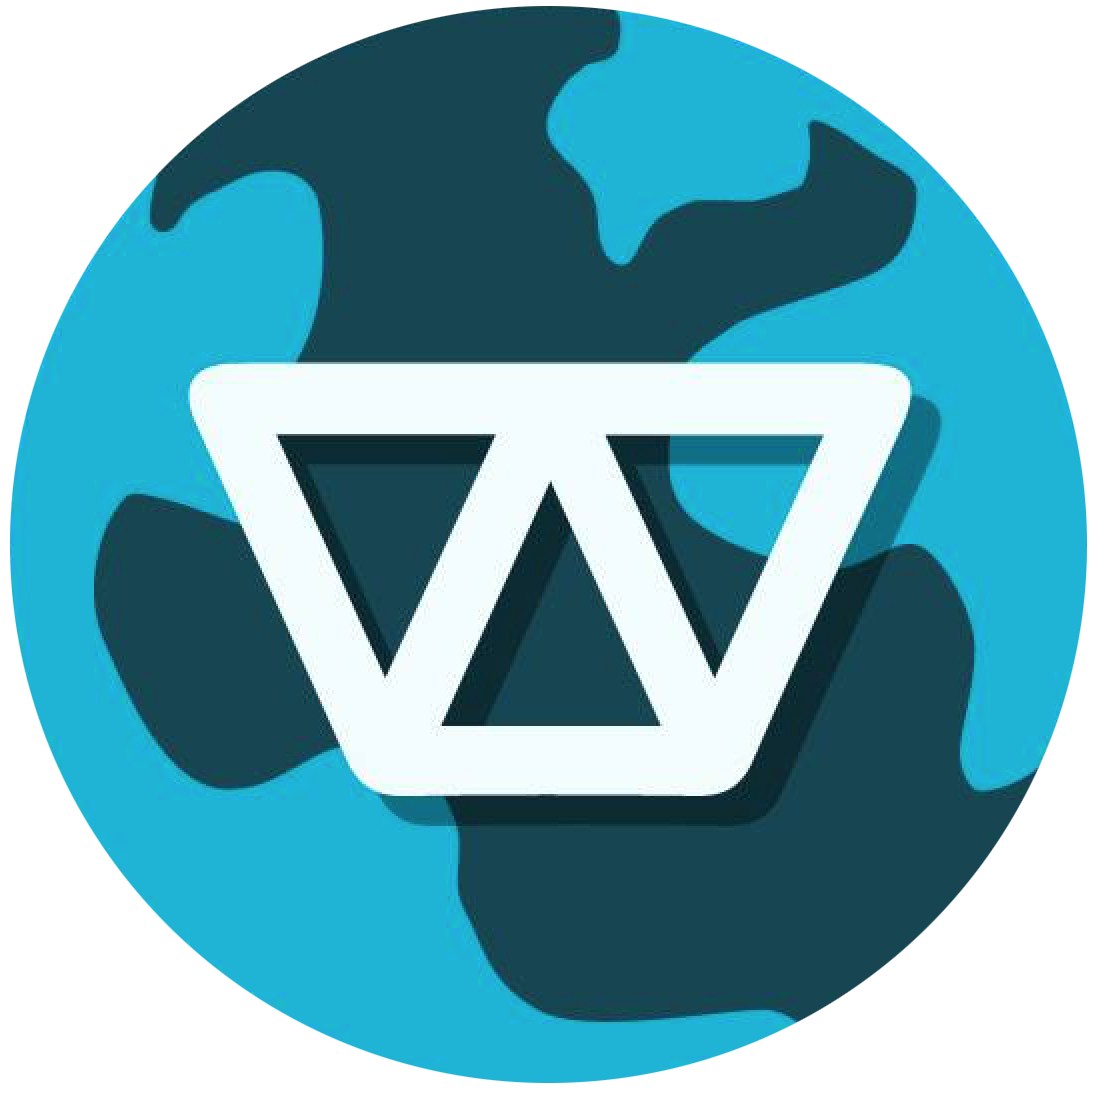
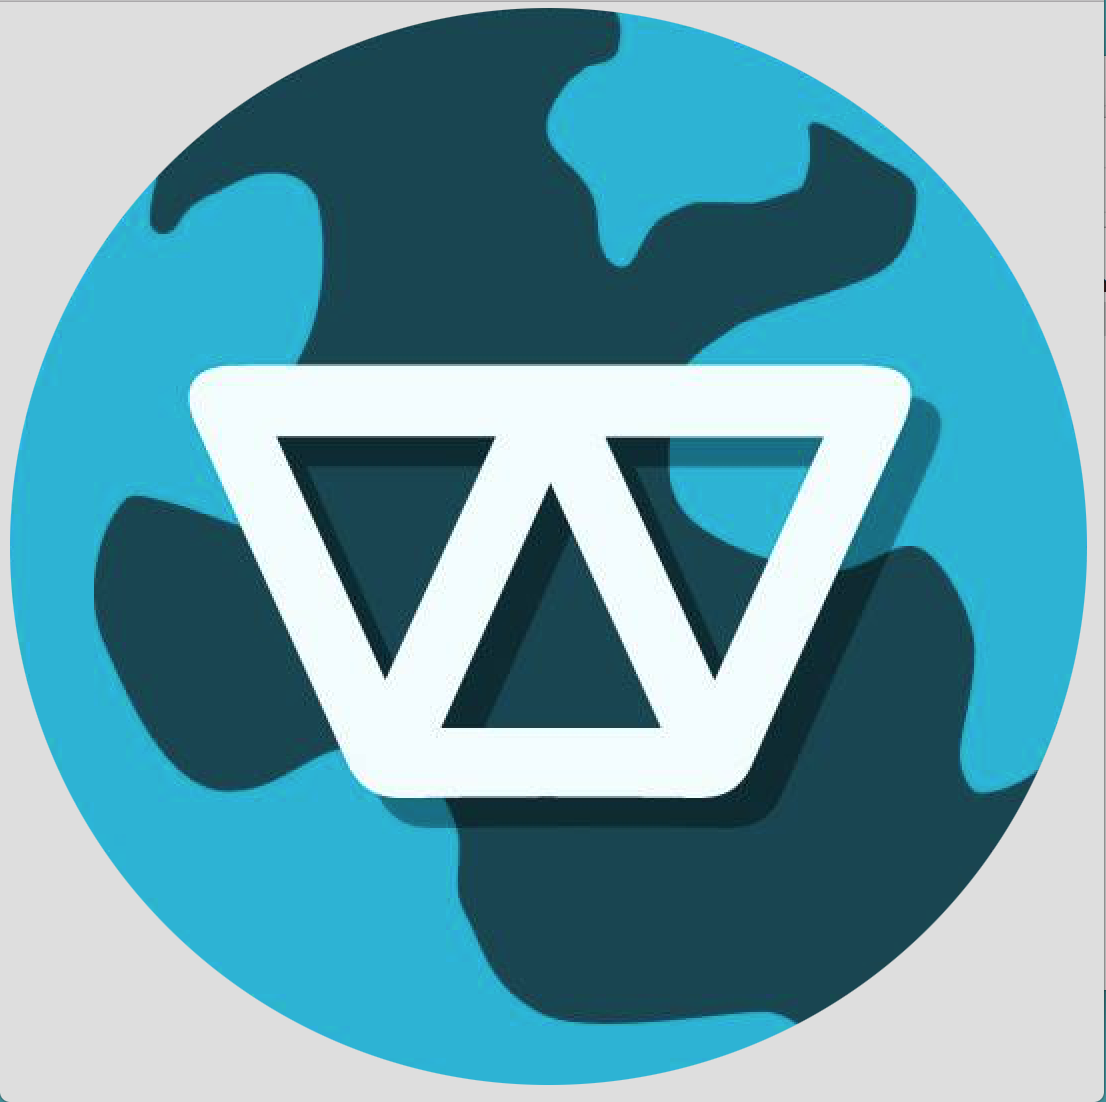
a

diff --git a/projects.html b/projects.html
@@ -78,8 +78,8 @@
 
         	<!-- Wake Up World -->
         	<div class="project personalproj featured">
-            	<div class="projpic wake">
-                	<img class = "wakeup" src="projimages/watsi.png">
+            	<div class="projpic">
+                	<img src="projimages/watsi.png">
             	</div>
             	<div class="projinfo">
                 	<div class="projtitle">Wake Up World</div>

diff --git a/projects.css b/projects.css
@@ -70,15 +70,6 @@
     display: block;
 }
 
-.wakeup {
-    width: 300px;
-    height: 300px;
-}
-
-.wake {
-    width: 320px;
-    height: 320px;
-}
 
 .projpic > img {
     width: 100%;
